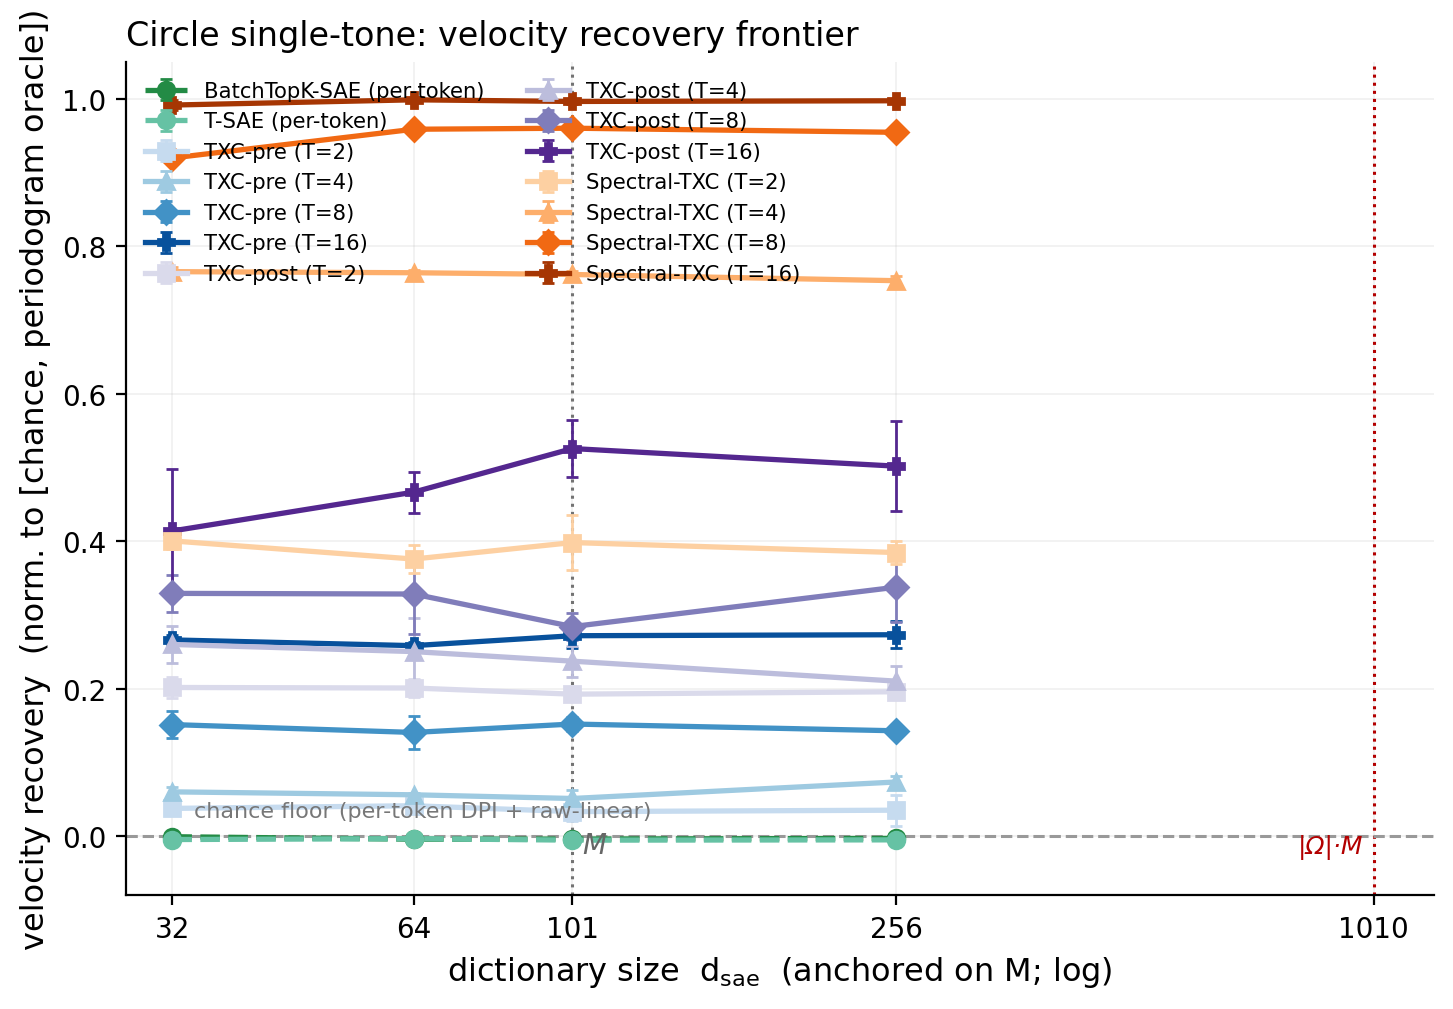
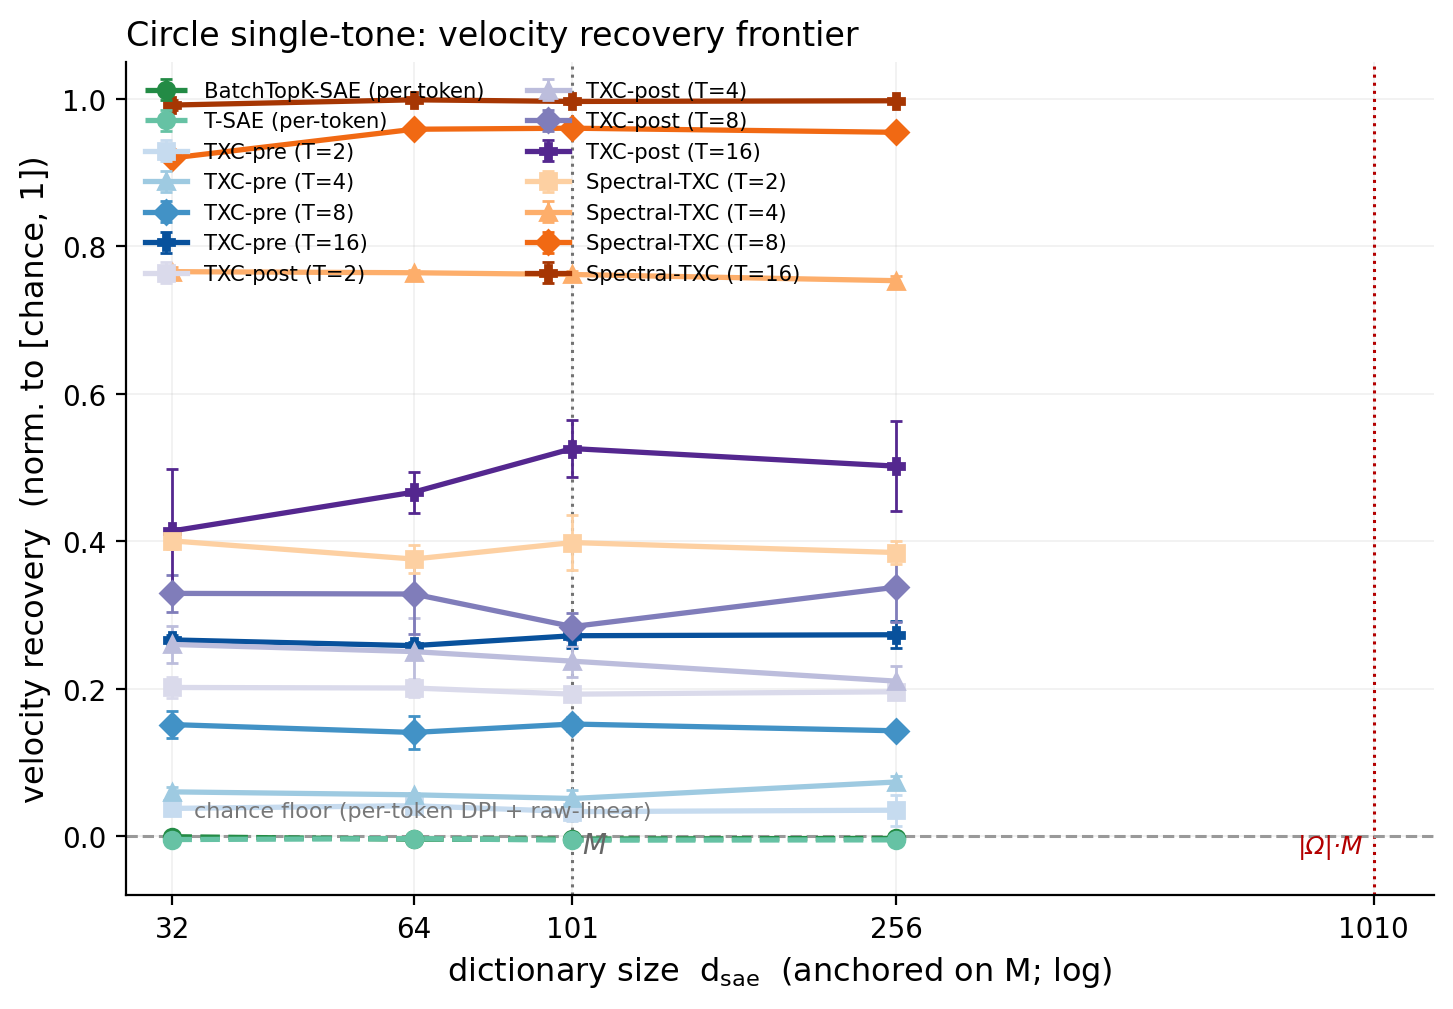
frequency: refine P3 headline (capacity-extreme edge) + fix main ylabel
Band-partition figure (b) shows multiband IS more robust at the scarcest capacity
(d_sae=32, T=16: multiband 0.99 vs full 0.90 vs dcac 0.71) — the preregistered
"multiband better only at capacity extremes" outcome. Refine the P3 headline to
state: tie at adequate capacity, multiband edge only at d_sae=32 + the untrained
access prior. Fix fig_main y-axis label ([chance,1], not [chance,periodogram]).

Changed region(s): [[0.0, 0.0, 0.031, 0.9217]]

diff --git a/experiments/explorations/synthetic/frequency/render_figs.py b/experiments/explorations/synthetic/frequency/render_figs.py
@@ -185,7 +185,7 @@ def fig_main(agg, plt):
     ax.set_xticklabels([str(d) for d in D_SAES] + ["1010"])
     ax.set_xlim(28, 1200); ax.set_ylim(*ylim)
     ax.set_xlabel("dictionary size  $d_{sae}$  (anchored on $M$; log)")
-    ax.set_ylabel("velocity recovery  (norm. to [chance, periodogram oracle])")
+    ax.set_ylabel("velocity recovery  (norm. to [chance, 1])")
     ax.set_title("Circle single-tone: velocity recovery frontier", loc="left", fontsize=12)
     ax.legend(ncol=2, fontsize=7.6, loc="upper left")
     fig.tight_layout()
@@ -471,10 +471,12 @@ def headline_block(agg):
     full16 = v(CIRCLE, "trained", "spectral_txc_full", 16, ANCHOR)
     full_un = v(CIRCLE, "untrained", "spectral_txc_full", 16, ANCHOR)
     dcac16 = v(CIRCLE, "trained", "spectral_txc_dcac", 16, ANCHOR)
-    # band-partition at the scarcest window (T=2), where budget would bite
+    # band-partition at the scarcest window (T=2) + scarcest capacity (d=32)
     spec2 = v(CIRCLE, "trained", "spectral_txc", 2, ANCHOR)
     full2 = v(CIRCLE, "trained", "spectral_txc_full", 2, ANCHOR)
     dcac2 = v(CIRCLE, "trained", "spectral_txc_dcac", 2, ANCHOR)
+    spec_d32 = v(CIRCLE, "trained", "spectral_txc", 16, 32)
+    full_d32 = v(CIRCLE, "trained", "spectral_txc_full", 16, 32)
     rand_spec16 = v(RANDOM, "trained", "spectral_txc", 16, ANCHOR)
     memo_rand_spec = v(RANDOM, "trained", "spectral_txc", 16, 2048)
     memo_rand_pre = v(RANDOM, "trained", "txc_batchtopk_pre", 16, 2048)
@@ -504,16 +506,17 @@ def headline_block(agg):
         f"velocity at **{fmt(un_spec)}** (its DCT-band kernels *are* bandpass "
         f"tone-detectors at init); TXC-post {fmt(un_post)}, TXC-pre {fmt(un_pre)}. "
         f"Training lifts Spectral {fmt(un_spec)}→{fmt(spec16)}.\n"
-        f"- **P3 — band partition at matched budget = a TIE (as preregistered):** at "
-        f"$T=16$ multiband **{fmt(spec16)}** ≈ 1-band DCT (`full`) **{fmt(full16)}** ≈ "
-        f"2-band **{fmt(dcac16)}** (all saturate the tone), and even at the scarcest "
-        f"window $T=2$ the three are within noise (multiband {fmt(spec2)}, dcac "
-        f"{fmt(dcac2)}, full {fmt(full2)}) — the *partition* does not help on a single "
-        f"tone. Where band-limiting **does** show is the **untrained access** prior "
-        f"(multiband {fmt(un_spec)} vs full {fmt(full_un)}: band-limited kernels are "
-        f"tone-detectors at init, a full-band DCT rotation is not). Clean **band "
-        f"decomposition** holds (each DCT band decodes the tones in its range). The "
-        f"decisive multiband win needs superposition (scoped out).\n"
+        f"- **P3 — band partition = a TIE at adequate capacity, multiband edge only at "
+        f"the extremes (exactly as preregistered):** at matched budget "
+        f"($k_{{win}}=k_{{pos}}·T$) the trained recovery is identical across 1/2/4 "
+        f"bands whenever capacity suffices — $T=16$: multiband **{fmt(spec16)}** ≈ full "
+        f"**{fmt(full16)}** ≈ dcac **{fmt(dcac16)}**; $T=2$: all within noise "
+        f"({fmt(spec2)}/{fmt(dcac2)}/{fmt(full2)}). The partition helps only at the "
+        f"**capacity extreme** ($d_{{sae}}=32$, $T=16$: multiband **{fmt(spec_d32)}** vs "
+        f"full **{fmt(full_d32)}**) and in the **untrained access** prior (multiband "
+        f"{fmt(un_spec)} vs full {fmt(full_un)}: band-limited kernels are tone-detectors "
+        f"at init). Clean **band decomposition** holds (each DCT band decodes the tones "
+        f"in its range). The decisive multiband win needs superposition (scoped out).\n"
         f"- **P4 ✓ — random null has no frequency axis:** on the random embedding the "
         f"per-Ω-class response is flat (no $\\Delta f$ ordering) and the circle's tones "
         f"are what make $Y$ resolvable (Spectral circle {fmt(spec16)} vs random "

diff --git a/experiments/explorations/synthetic/frequency/bench_record.md b/experiments/explorations/synthetic/frequency/bench_record.md
@@ -59,7 +59,7 @@ resolves only high-Y, all-1.00 at T=16); random null flat (per-Ω-class range
 - **P1 ✓ — per-token flat at chance:** BatchTopK-SAE / T-SAE velocity recovery ≈ **0.01** at every $d_{sae}$ (provable DPI + gating raw-linear-at-chance). Velocity is a 2nd-moment latent; no per-token code exposes it.
 - **The discriminator is the $S(f)$ *shape*, and it splits the crosscoders by encoder structure.** Codes that **mix positions before the nonlinearity** (TXC-post `relu(Σ_t W_t x_t)`, Spectral) recover $Y$ with a **high-pass / Rayleigh-resolved** $S(f)$ — Spectral near-oracle (**1.00** at $T=16$), TXC-post **0.53**. The **additive-over-position** code (TXC-pre `Σ_t g(x_t)`) caps at **0.27** with a **flat** $S(f)$: its recovery is *bag-level, not spectral estimation* (each token's marginal is $Y$-independent → additive codes carry no frequency ordering).
 - **The spectral advantage is a band-limited inductive bias, amplified by learning (access ≫ learning here).** An **untrained** Spectral already reads velocity at **0.64** (its DCT-band kernels *are* bandpass tone-detectors at init); TXC-post 0.18, TXC-pre 0.02. Training lifts Spectral 0.64→1.00.
-- **P3 — band partition at matched budget = a TIE (as preregistered):** at $T=16$ multiband **1.00** ≈ 1-band DCT (`full`) **1.00** ≈ 2-band **1.00** (all saturate the tone), and even at the scarcest window $T=2$ the three are within noise (multiband 0.40, dcac 0.40, full 0.37) — the *partition* does not help on a single tone. Where band-limiting **does** show is the **untrained access** prior (multiband 0.64 vs full 0.46: band-limited kernels are tone-detectors at init, a full-band DCT rotation is not). Clean **band decomposition** holds (each DCT band decodes the tones in its range). The decisive multiband win needs superposition (scoped out).
+- **P3 — band partition = a TIE at adequate capacity, multiband edge only at the extremes (exactly as preregistered):** at matched budget ($k_{win}=k_{pos}·T$) the trained recovery is identical across 1/2/4 bands whenever capacity suffices — $T=16$: multiband **1.00** ≈ full **1.00** ≈ dcac **1.00**; $T=2$: all within noise (0.40/0.40/0.37). The partition helps only at the **capacity extreme** ($d_{sae}=32$, $T=16$: multiband **0.99** vs full **0.90**) and in the **untrained access** prior (multiband 0.64 vs full 0.46: band-limited kernels are tone-detectors at init). Clean **band decomposition** holds (each DCT band decodes the tones in its range). The decisive multiband win needs superposition (scoped out).
 - **P4 ✓ — random null has no frequency axis:** on the random embedding the per-Ω-class response is flat (no $\Delta f$ ordering) and the circle's tones are what make $Y$ resolvable (Spectral circle 1.00 vs random 0.57 at $T=16$). Above $|Ω|·M=1010$ the **null** recovery jumps by template memorization (Spectral 0.57→**1.00**, TXC-pre →0.55) — caught + flagged; all main cells stay $d_{sae}<1010$.
 - **Substrate:** circle-embedded cyclic tones, $M=101$, $Ω=\{0,1,2,4,8,16,24,32,40,50\}$, $σ=0.10$; BatchTopK fair backbone; seeds {1,2,42}; 298-cell main grid + band-partition addendum. (Stacked dropped — concatenated per-position code memorizes above $T·d_{sae}=|Ω|·M$; A5.)
 <!-- END AUTO:headline -->
